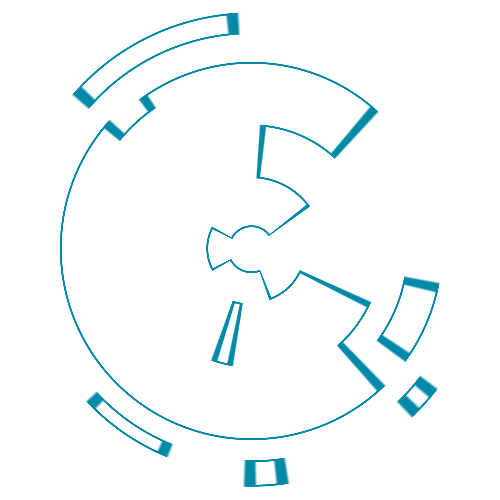
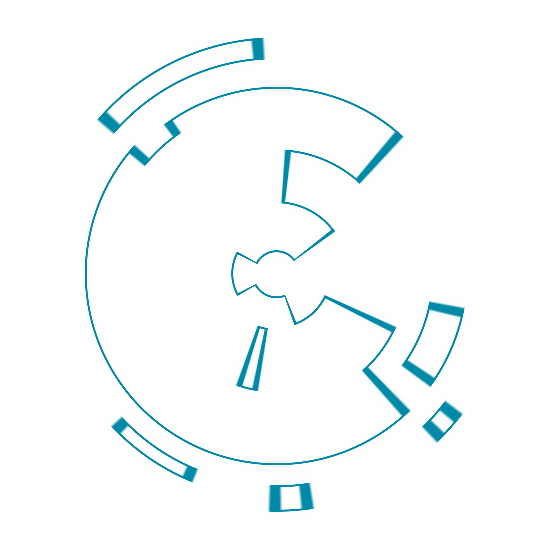
navigation wheel component done and animating properly. Landing page stubbed together. TODO:: Make the Landing Page responsive!

diff --git a/src/components/NavigationSpinner.js b/src/components/NavigationSpinner.js
@@ -7,39 +7,59 @@ export default class NavigationSpinner extends Component {
     constructor(props) {
         super(props);
         this.state = {
-            target: this.props.target,
             orientation: this.props.orientation,
             text: this.props.text,
-            mouseOver: false,
+            toggleAnimation: "paused",
+            wheelOneRotation: 0,
+            wheelTwoRotation: 0,
         }
     }
-    
-    mouseOver = () => {
-        const wheelOneDOM = document.getElementById("wheel-image-component-one");
-        const wheelTwoDOM = document.getElementById("wheel-image-component-two");
 
-        wheelOneDOM.id = "wheel-image-component-one-hover";
-        wheelTwoDOM.id = "wheel-image-component-two-hover";
+    componentDidMount() {
+        const wheelTextDOM = document.getElementById(this.state.text);
+        const orientation = this.state.orientation;
 
-        console.log("Mouse Over")
+        if (orientation === "right") {
+            wheelTextDOM.style.right = "40%";
+            wheelTextDOM.style.textAlign = "right";
+        } else if (orientation === "left") {
+            wheelTextDOM.style.left = "40%";
+            wheelTextDOM.style.textAlign = "left";
+        }
     }
 
-    mouseOut = () => {
-        const wheelOneDOM = document.getElementById("wheel-image-component-one-hover");
-        const wheelTwoDOM = document.getElementById("wheel-image-component-two-hover");
+    toggleAnimation = () => {
+        const wheelOneDOM = document.getElementById("wheel-image-component-one"+this.state.text);
+        const wheelTwoDOM = document.getElementById("wheel-image-component-two"+this.state.text);
+        const wheelTextDOM = document.getElementById(this.state.text);
+        const wheelContainerDOM = document.getElementById("wheel-container"+this.state.text);
+        var toggleAnimation = this.state.toggleAnimation;
 
-        wheelOneDOM.id = "wheel-image-component-one";
-        wheelTwoDOM.id = "wheel-image-component-two";
+        if (toggleAnimation === "paused") {
+            toggleAnimation = "running";
+            wheelContainerDOM.style.opacity = "1.0";
+            console.log("starting animation")
+        } else if (toggleAnimation === "running") {
+            toggleAnimation = "paused";
+            wheelContainerDOM.style.opacity = "0.25";
+            console.log("pausing animation")
+        }
 
-        console.log("Mouse Out")
+        wheelOneDOM.style.animationPlayState = toggleAnimation;
+        wheelTwoDOM.style.animationPlayState = toggleAnimation;
+        wheelTextDOM.style.animationPlayState = toggleAnimation;
+
+        this.setState({
+            toggleAnimation: toggleAnimation,
+        })
     }
 
     render() {
         return (
-            <div className="wheel-container" onMouseOver={this.mouseOver} onMouseOut={this.mouseOut}>
-                <img src={wheeltwo} alt="wheel-two" className="wheel-image-component" id="wheel-image-component-two"  />
-                <img src={wheelone} alt="wheel-one" className="wheel-image-component" id="wheel-image-component-one"  />
-                <h1 className="wheel-text">{this.state.text}</h1>
+            <div className="wheel-container" id={"wheel-container"+this.state.text} onMouseOver={this.toggleAnimation} onMouseOut={this.toggleAnimation} onClick={this.props.onClick}>
+                <img src={wheeltwo} alt="wheel-two" className="wheel-image-component wheel-image-component-two" id={"wheel-image-component-two"+this.state.text}  />
+                <img src={wheelone} alt="wheel-one" className="wheel-image-component wheel-image-component-one" id={"wheel-image-component-one"+this.state.text}  />
+                <h1 className="wheel-text" id={this.state.text}>{this.state.text}</h1>
             </div>
         )
     }

diff --git a/src/App.js b/src/App.js
@@ -1,25 +1,66 @@
 import React, {Component} from 'react';
 import NavigationSpinner from './components/NavigationSpinner';
+import Portfolio from './components/Portfolio';
+
+import './App.css';
 
 export default class App extends Component{
   constructor(props) {
     super(props);
     this.state = {
-      isLoaded: false,
+      currentPage: "home",
     }
   }
 
+  _changePage(newPage) {
+    this.setState({
+      currentPage: newPage
+    });
+  }
+
   render() {
-    return(
-      <div className="app-container">
-        <h1 id="title-banner">J. Tyler McGoffin</h1>
-        <h5 id="subtitle-banner">Designing the Future</h5>
-        <NavigationSpinner
-          target={null}
-          orientation={"left"}
-          text="Portfolio"
-        />
-      </div>
-    )
+    const currentPage = this.state.currentPage;
+    if (currentPage ==="home") {
+      return(
+        <div className="app-container">
+          <div className="banner-container">
+            <h1 className="banner" id="title">J. Tyler McGoffin</h1>
+            <h5 className="banner" id="subtitle">Designing the Future</h5>
+          </div>
+          <div className="navigation-spinner" id="portfolio">
+            <NavigationSpinner
+              orientation="left"
+              text="Portfolio"
+              onClick={() => this._changePage("portfolio")}
+            />
+          </div>
+          <div className="navigation-spinner" id="design-process">
+            <NavigationSpinner
+              orientation="right"
+              text="Design Process"
+              onClick={() => this._changePage("designProcess")}
+            />
+          </div>
+          <div className="navigation-spinner" id="work-life">
+            <NavigationSpinner
+              orientation="left"
+              text="Work Life"
+              onClick={() => this._changePage("workLife")}
+            />
+          </div>
+          <div className="navigation-spinner" id="personal-life">
+            <NavigationSpinner
+              orientation="right"
+              text="Personal Life"
+              onClick={() => this._changePage("personalLife")}
+            />
+          </div>
+        </div>
+      )
+    } else if (currentPage === "portfolio") {
+      return (
+        <Portfolio/>
+      )
+    }
   }
 };

diff --git a/src/components/NavigationSpinner.css b/src/components/NavigationSpinner.css
@@ -1,13 +1,11 @@
-body {
-    background-color: black;
-}
-
 .wheel-container {
     margin: auto;
     position: relative;
     text-align: center;
-    height: 500px;
-    width: 500px;
+    height: 300px;
+    width: 300px;
+    opacity: 0.25;
+    transition: 400ms;
 }
 
 .wheel-image-component {
@@ -18,32 +16,38 @@ body {
     height: 90%;
     width: 90%;
     margin: auto;
+    transition: 3s;
 }
 
 .wheel-text {
     position: absolute;
-    font-size: 96px;
-    left: 40%;
+    width: 600px;
+    font-size: 60px;
     top: 25%;
     font-family: orbitron;
     color: #E3E9Ea;
+    animation: glow 500ms ease-in-out infinite alternate;
+    animation-play-state: paused;
 }
 
-#wheel-image-component-one-hover {
+.wheel-image-component-one {
     animation-name: rotate-clockwise;
     animation-duration: 40s;
     animation-iteration-count: infinite;
     animation-timing-function: linear;
     cursor: pointer;
+    animation-play-state: paused;
 }
 
-#wheel-image-component-two-hover {
+.wheel-image-component-two {
     animation-name: rotate-counterclockwise;
     animation-duration: 60s;
     animation-iteration-count: infinite;
     animation-timing-function: linear;
     cursor: pointer;
+    animation-play-state: paused;
 }
+
 
 @keyframes rotate-clockwise {
     from {
@@ -58,5 +62,13 @@ body {
         transform: rotate(360deg);
     } to {
         transform: rotate(1deg);
+    }
+}
+
+@keyframes glow {
+    from {
+        text-shadow: 0 0 5px #E3E9Ea;
+    } to {
+        text-shadow: 0 0 10px #E3E9Ea;
     }
 }

diff --git a/src/App.css b/src/App.css
@@ -1,0 +1,62 @@
+html, body {
+    background-image: url('./assets/space-scape.png');
+    background-size: cover; 
+    background-repeat: no-repeat;
+    height: 100%;
+    width: 100%;
+    margin: 0;
+    padding: 0;
+}
+
+.app-container {
+    width: 100%;
+    height: 100%;
+}
+
+.navigation-spinner {
+    height: 200px;
+    width: 200px;
+    position: absolute;
+}
+
+.banner-container {
+    width: 100%;
+    height: 100%;
+    padding-top: 18%;
+}
+
+.banner {
+    position: relative;
+    font-family: orbitron;
+    text-align: center;
+    color: #e3e9ea;
+    margin: auto;
+}
+
+#title {
+    font-size: 96px;
+}
+
+#subtitle{
+    font-size: 48px;
+}
+
+#portfolio {
+    top: 6%;
+    left: 5%;
+}
+
+#design-process {
+    top: 8%;
+    right: 6%;
+}
+
+#work-life {
+    bottom: 8%;
+    left: 8%;
+}
+
+#personal-life {
+    bottom: 9%;
+    right: 10%;
+}

diff --git a/src/components/Portfolio.js b/src/components/Portfolio.js
@@ -1,0 +1,9 @@
+import React from 'react';
+
+export default function Portfolio() {
+    return(
+        <div styles={{color: "#ffffff"}}>
+          <h1>Portfolio</h1>
+        </div>
+    )
+}
